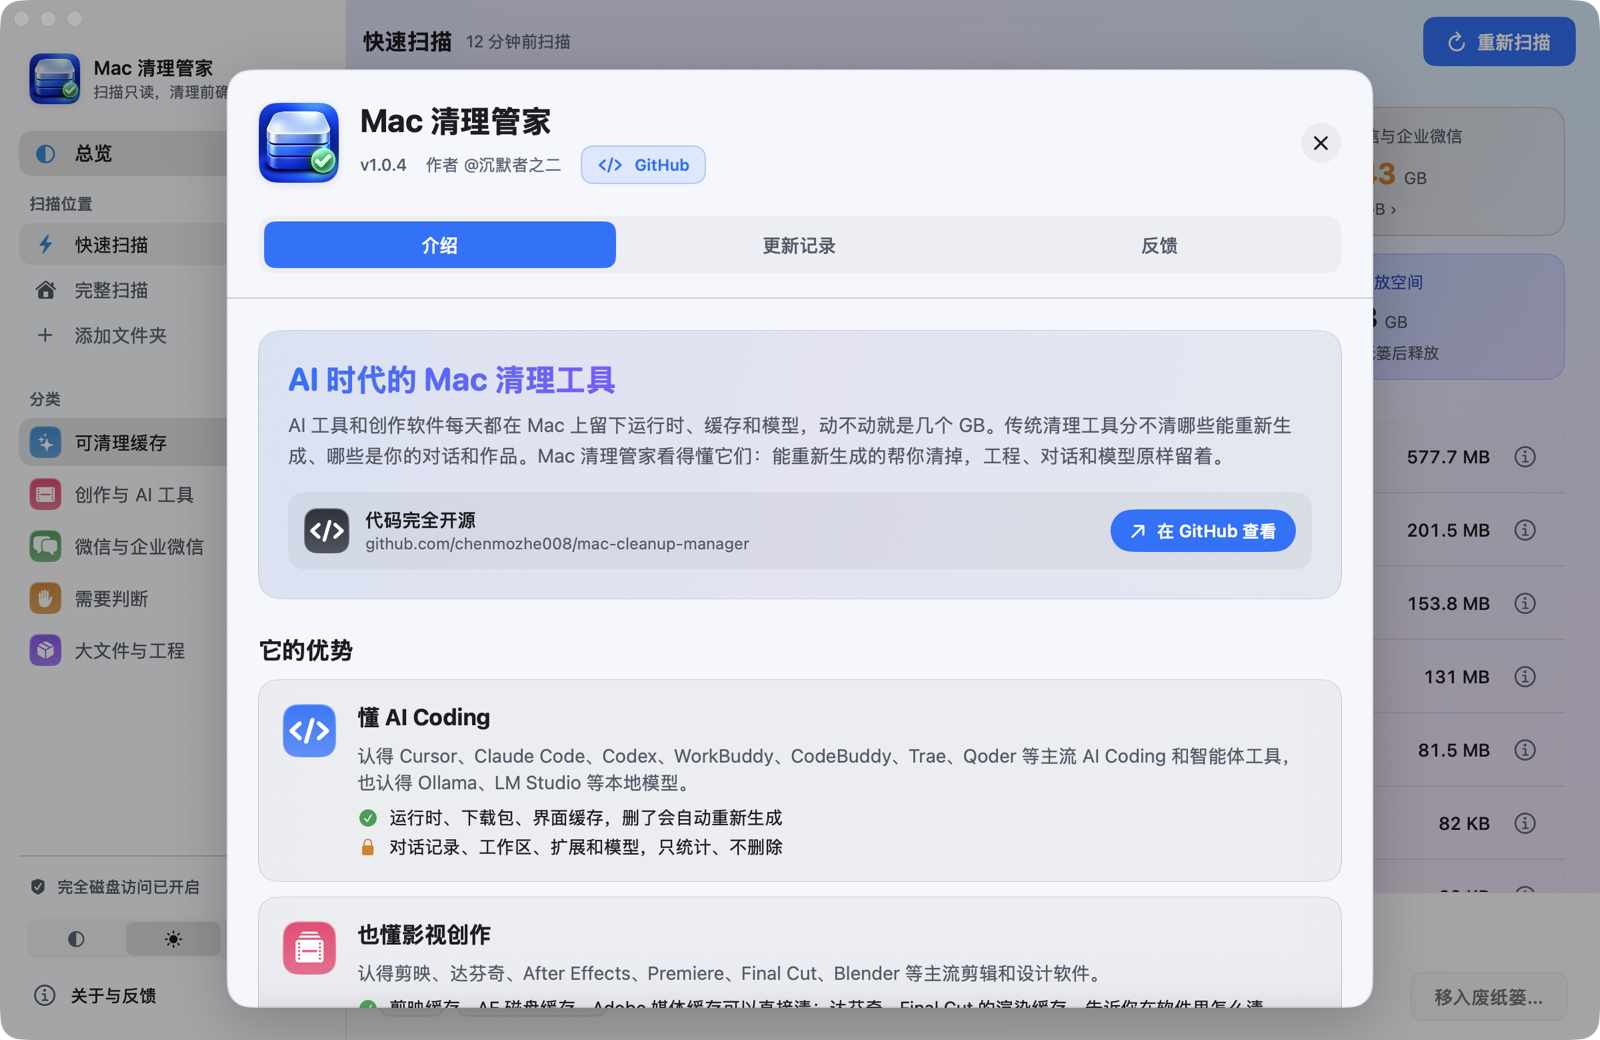
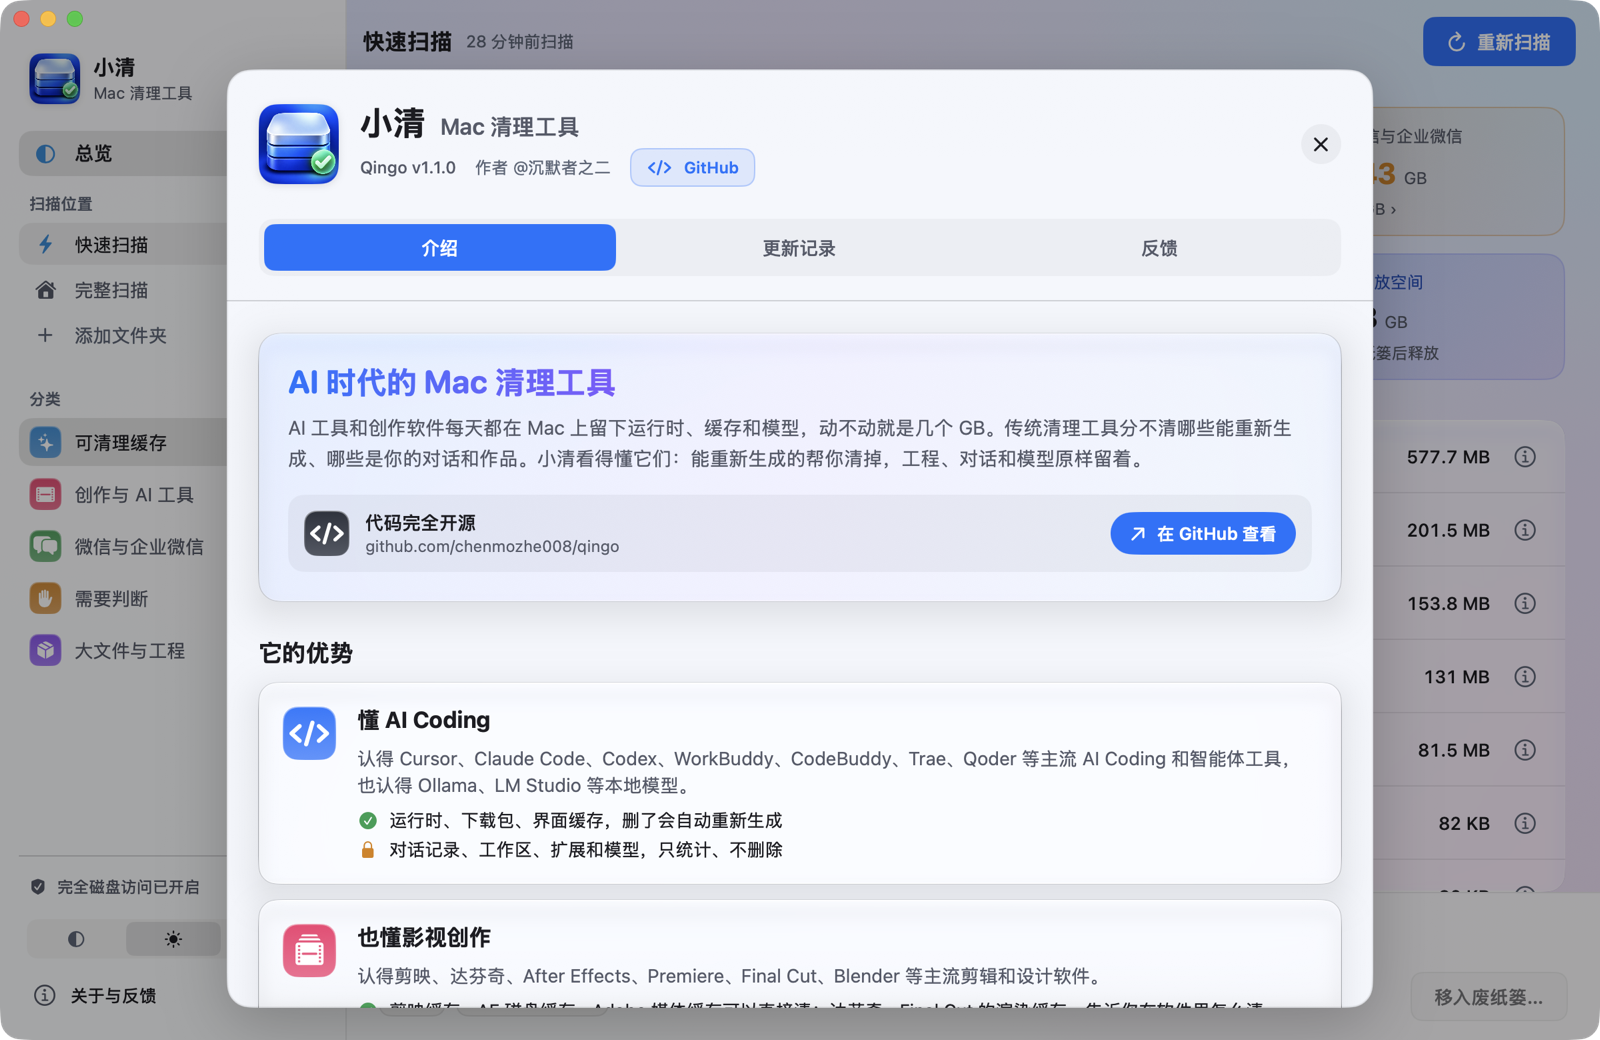
Show '小清 Mac 清理工具' wherever the name appears; refresh README screenshots

diff --git a/Sources/Qingo/MainView.swift b/Sources/Qingo/MainView.swift
@@ -58,9 +58,14 @@ struct MainView: View {
             Spacer(minLength: 48)
             brandIcon(150)
                 .shadow(color: Theme.blue.opacity(0.7), radius: 34, y: 18)
+            HStack(alignment: .firstTextBaseline, spacing: 10) {
+                Text("小清").font(.system(size: 20, weight: .bold))
+                Text("Mac 清理工具").font(.system(size: 15, weight: .medium)).foregroundStyle(Theme.ink2)
+            }
+            .padding(.top, 22)
             Text("看看磁盘空间都去哪了")
                 .font(.system(size: 34, weight: .bold))
-                .padding(.top, 26)
+                .padding(.top, 10)
             Text("扫描只读不改。能清的由你勾选，拿不准的只做提示。")
                 .font(.system(size: 14))
                 .foregroundStyle(Theme.ink2)
@@ -82,14 +87,12 @@ struct MainView: View {
             .buttonStyle(.plain)
             .keyboardShortcut(.defaultAction)
             .padding(.top, 40)
-            HStack(spacing: 8) {
+            HStack(spacing: 18) {
                 Text("或").foregroundStyle(Theme.ink2)
                 Button("完整扫描") { store.scanLocation(home) }
                 ForEach(store.savedFolders, id: \.self) { folder in
-                    Text("·").foregroundStyle(Theme.ink3)
                     Button(folder.lastPathComponent) { store.scanLocation(folder) }
                 }
-                Text("·").foregroundStyle(Theme.ink3)
                 Button("添加文件夹…") { store.chooseFolder() }
             }
             .buttonStyle(LinkButtonStyle())
@@ -359,8 +362,8 @@ struct MainView: View {
             HStack(spacing: 10) {
                 brandIcon(38).shadow(color: .black.opacity(0.12), radius: 3, y: 1)
                 VStack(alignment: .leading, spacing: 2) {
-                    Text("小清").font(.system(size: 15, weight: .semibold))
-                    Text("扫描只读，清理前确认").font(.system(size: 11.5)).foregroundStyle(Theme.ink3)
+                    Text("小清").font(.system(size: 16, weight: .bold))
+                    Text("Mac 清理工具").font(.system(size: 12)).foregroundStyle(Theme.ink2)
                 }
             }
             .padding(.horizontal, 8)

diff --git a/Sources/Qingo/AboutView.swift b/Sources/Qingo/AboutView.swift
@@ -135,10 +135,10 @@ struct AboutView: View {
             VStack(alignment: .leading, spacing: 5) {
                 HStack(alignment: .firstTextBaseline, spacing: 10) {
                     Text("小清").font(.system(size: 26, weight: .bold))
-                    Text("Qingo").font(.system(size: 18, weight: .semibold, design: .rounded)).foregroundStyle(Theme.ink3)
+                    Text("Mac 清理工具").font(.system(size: 17, weight: .semibold)).foregroundStyle(Theme.ink2)
                 }
                 HStack(spacing: 14) {
-                    Text("v\(AppInfo.version)").font(.system(size: 12.5, weight: .medium)).foregroundStyle(Theme.ink2)
+                    Text("Qingo v\(AppInfo.version)").font(.system(size: 12.5, weight: .medium)).foregroundStyle(Theme.ink2)
                     Text("作者 \(AppInfo.author)").font(.system(size: 12.5)).foregroundStyle(Theme.ink3)
                     Button { NSWorkspace.shared.open(AppInfo.repository) } label: {
                         Label("GitHub", systemImage: "chevron.left.forwardslash.chevron.right")

diff --git a/Sources/Qingo/QingoApp.swift b/Sources/Qingo/QingoApp.swift
@@ -13,7 +13,7 @@ struct QingoApp: App {
     // bypasses the system squircle mask and shows a raw square.
 
     var body: some Scene {
-        WindowGroup("小清") {
+        WindowGroup("小清 Mac 清理工具") {
             MainView(store: store)
                 .frame(minWidth: 960, minHeight: 640)
         }

diff --git a/CLAUDE.md b/CLAUDE.md
@@ -2,7 +2,7 @@
 
 原生 SwiftUI 磁盘扫描/缓存清理 App。功能说明看 README.md。
 
-- 名字（2026-10-21 用户定）：中文「小清」、英文「Qingo」；名字里不带 Mac（以后可能做 Windows）。图标暂不改（出过三版方案，用户选择先保留，稿在 `output/mockups/qingo-icon/`）
+- 名字（2026-10-21 用户定）：中文「小清」、英文「Qingo」；**出现名字的地方都要带「Mac 清理工具」**（侧栏、欢迎页、关于、README、仓库简介），光写「小清」别人不知道是干嘛的；名字里不带 Mac（以后可能做 Windows）。图标暂不改（出过三版方案，用户选择先保留，稿在 `output/mockups/qingo-icon/`）
 - 身份：Swift 模块/可执行文件 `Qingo`，bundle id `io.github.chenmozhe008.qingo`；旧身份 `com.forwardyan.MacSpaceKeeper` 的设置和 `Application Support/MacSpaceKeeper/results` 由 `LegacyMigration` 带过来，别删
 - 分发：走 GitHub Releases（以后再做公证），**不上 Mac App Store**（沙盒读不了 ~/Library 和其他应用目录，核心功能会废）
 

diff --git a/README.md b/README.md
@@ -2,9 +2,9 @@
 
 <img src="docs/images/icon.png" width="128" alt="小清图标">
 
-# 小清 Qingo
+# 小清：Mac 清理工具
 
-**AI 时代的 Mac 清理工具**
+**Qingo**，AI 时代的 Mac 清理工具
 
 认得 Cursor、Claude Code、Codex、剪映、达芬奇……缓存帮你清掉，工程、对话和模型原样留着。
 
